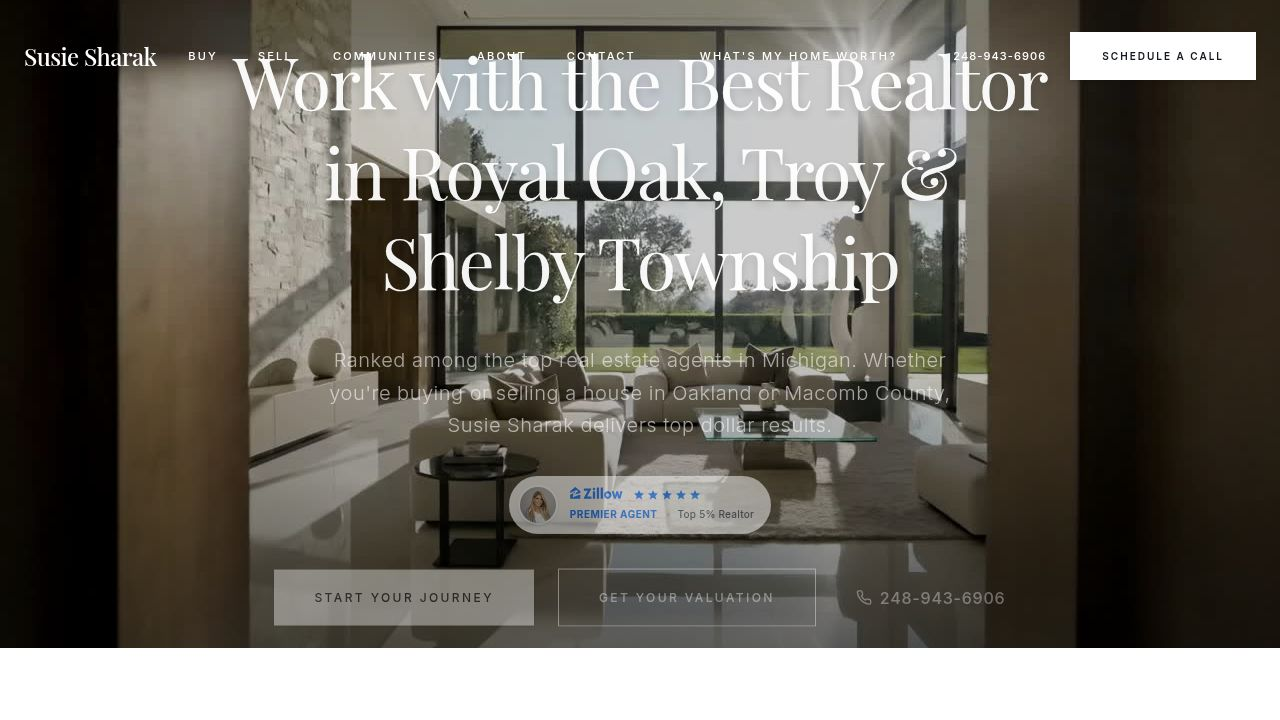
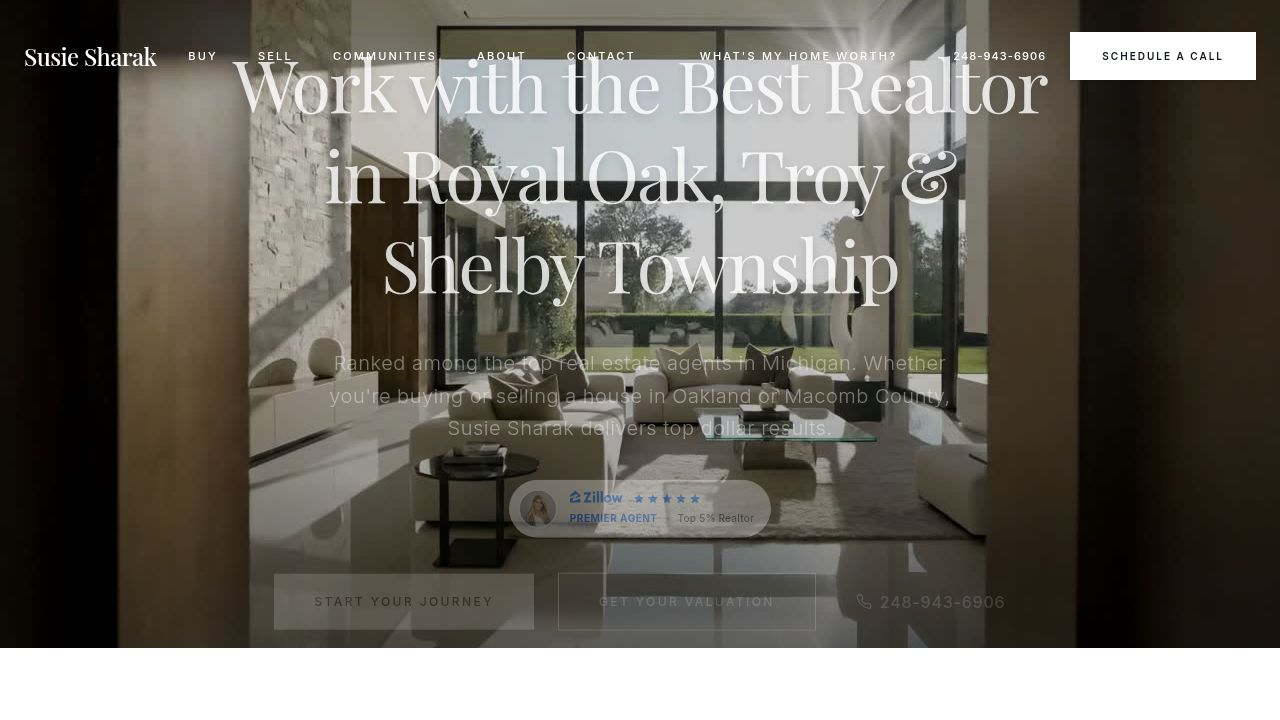
Add analytics tracking script to all website pages
Integrates DataFast analytics script into the root index.html to track website activity across all pages, using defer strategy with specified data attributes.

Replit-Commit-Author: Agent
Replit-Commit-Session-Id: 2978f62c-460c-4c86-8f26-1b62ddd272b0
Replit-Commit-Checkpoint-Type: full_checkpoint
Replit-Commit-Event-Id: d687a34f-3eec-4971-b4b5-2fee2e1ecd15
Replit-Commit-Screenshot-Url: https://storage.googleapis.com/screenshot-production-us-central1/499ab42f-4400-42a1-bc43-030016c28e43/2978f62c-460c-4c86-8f26-1b62ddd272b0/X44vyKp
Replit-Helium-Checkpoint-Created: true

diff --git a/client/index.html b/client/index.html
@@ -89,6 +89,13 @@
       }
     }
     </script>
+    <!-- DataFast Analytics -->
+    <script
+      defer
+      data-website-id="dfid_hoXbQR9Q7ARmmHcGjk3yV"
+      data-domain="susiesharak.com"
+      src="https://datafa.st/js/script.js">
+    </script>
   </head>
   <body>
     <div id="root"></div>
